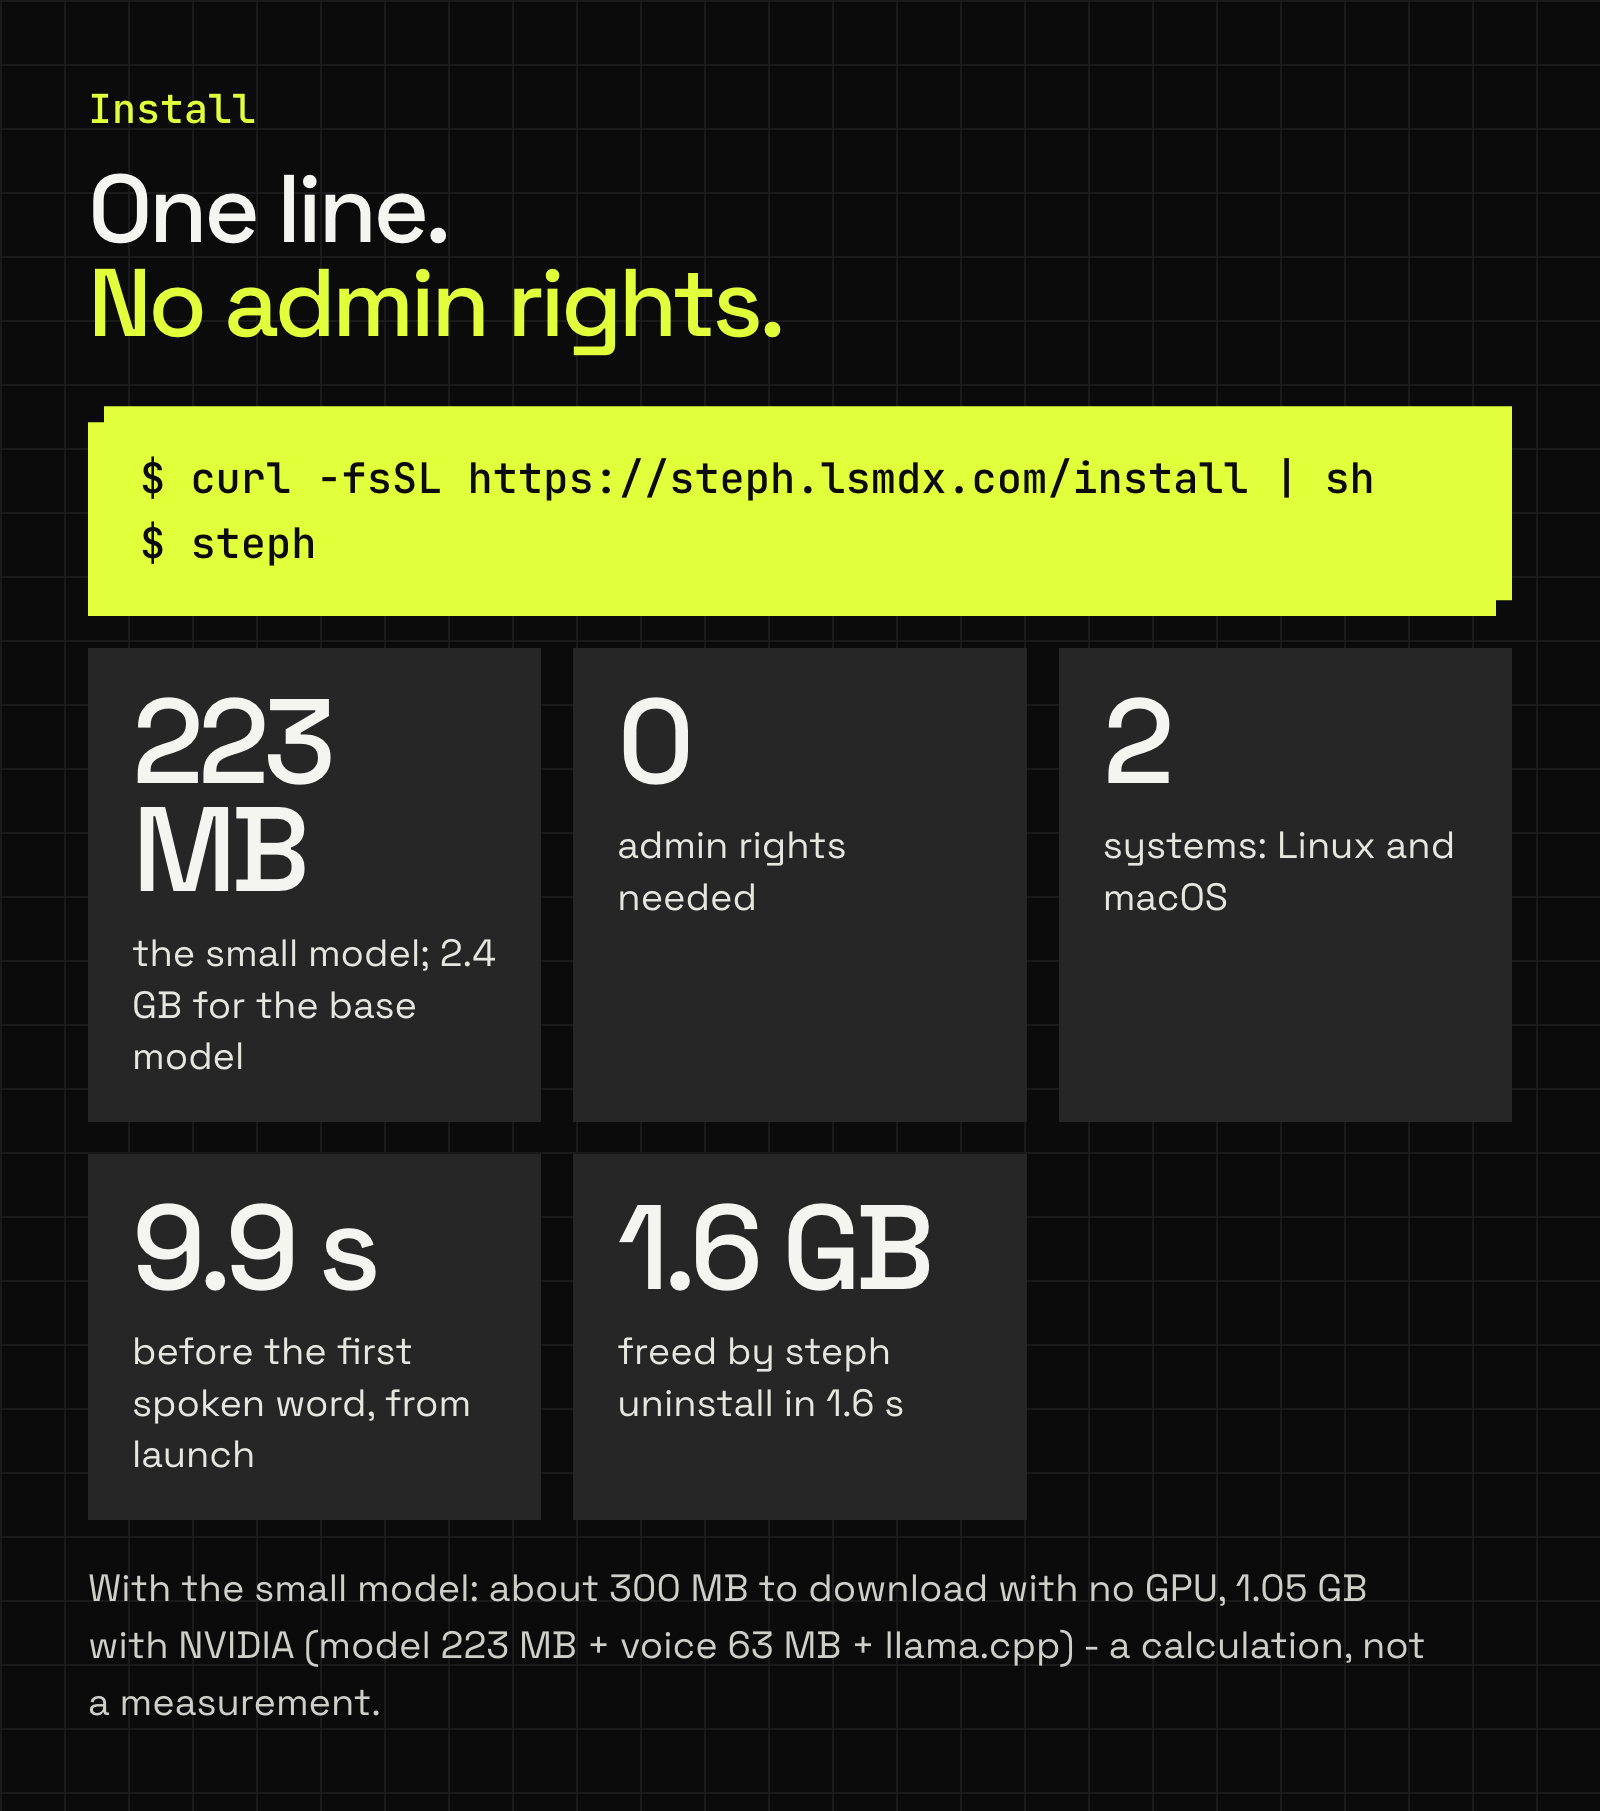
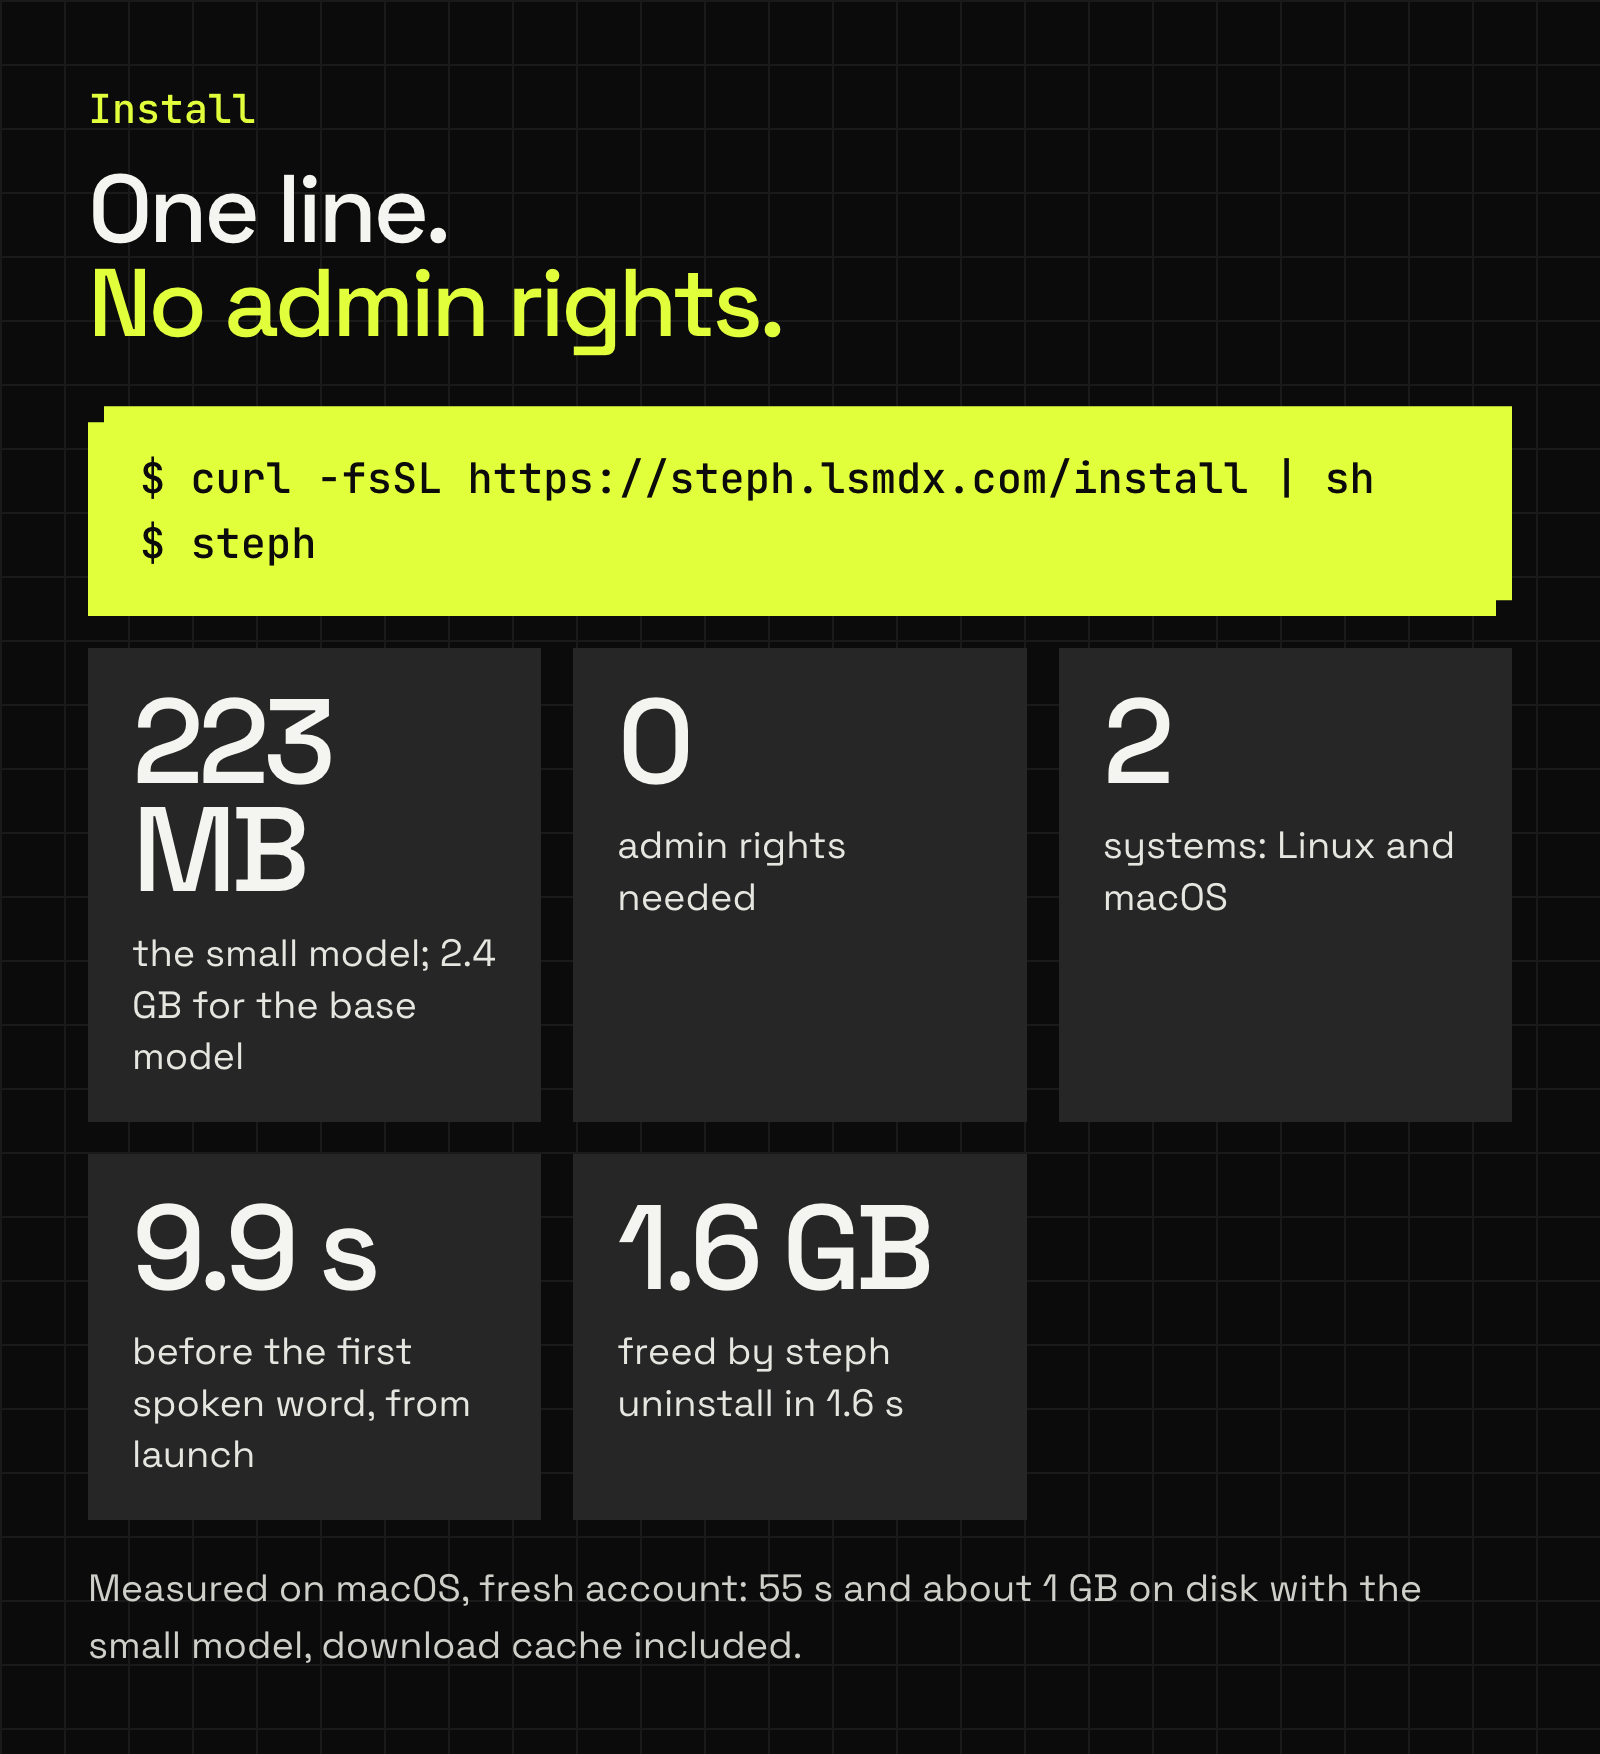
fix(shell): intégration bash réparée, taille d'installation mesurée

Changed region(s): [[0.0312, 0.0308, 0.9688, 0.9544]]

diff --git a/site/public/index.html b/site/public/index.html
@@ -164,8 +164,8 @@
       </div>
       <div class="tile">
         <h3 class="h3-mono">Installation</h3>
-        <p class="tile-figure" style="font-size:clamp(60px,6vw,88px)">≈ 300 Mo</p>
-        <p>Calcul, sans carte graphique : petit modèle, voix et llama.cpp. steph parle avant la fin.</p>
+        <p class="tile-figure" style="font-size:clamp(60px,6vw,88px)">≈ 1 Go</p>
+        <p>Mesuré sur macOS, compte vierge : 55 secondes, cache compris. steph parle avant la fin.</p>
       </div>
       <div class="tile lemon">
         <h3 class="h3-mono">Local</h3>
@@ -177,7 +177,7 @@
       <summary>Comment ces chiffres sont mesurés</summary>
       <ul class="detail-list">
         <li><strong>Premier son :</strong> neuf fois sur dix, steph commence à parler moins de 0,19 seconde après la fin d'une commande. Portable Intel Core i5-7200U, sans carte graphique, 33 sorties réelles rejouées. Mesuré avec une version antérieure de steph-speak et non remesuré : 32 de ces 33 phrases viennent des règles écrites en code, sans le modèle.</li>
-        <li><strong>Installation :</strong> le petit modèle pèse 223 Mo, le modèle base 2,43 Go, auxquels s'ajoutent la voix (63 Mo) et llama.cpp. Avec le petit modèle et sans carte graphique, comptez environ 300 Mo (calcul, pas une mesure).</li>
+        <li><strong>Installation :</strong> mesurée sur macOS dans un compte vierge : 55 secondes et environ 1 Go sur le disque avec le petit modèle (modèle 212 Mo, voix 60 Mo, Python, code et dépendances 450 Mo, cache de téléchargement 260 Mo, supprimable) ; llama.cpp de Homebrew non compté. Le modèle base ajoute 2,43 Go.</li>
       </ul>
     </details>
 
@@ -376,7 +376,7 @@
       <button class="copy" type="button" data-copy="install"><span class="lbl">Copier</span><span class="sr-only"> les commandes d'installation</span></button>
     </div>
     <ul class="inline-list">
-      <li>Sans droits administrateur. Le petit modèle pèse 223 Mo ; environ 300 Mo en tout sans carte graphique.</li>
+      <li>Sans droits administrateur. Environ 1 Go sur le disque avec le petit modèle (mesuré sur macOS).</li>
       <li>Prérequis : <code>curl</code>, <code>git</code>, <code>tar</code>.</li>
       <li>Désinstaller : <code class="accent">steph uninstall</code></li>
     </ul>

diff --git a/site/public/en/index.html b/site/public/en/index.html
@@ -164,8 +164,8 @@
       </div>
       <div class="tile">
         <h3 class="h3-mono">Install</h3>
-        <p class="tile-figure" style="font-size:clamp(60px,6vw,88px)">≈ 300 MB</p>
-        <p>A calculation, with no graphics card: small model, voice and llama.cpp. steph speaks before it ends.</p>
+        <p class="tile-figure" style="font-size:clamp(60px,6vw,88px)">≈ 1 GB</p>
+        <p>Measured on macOS, fresh account: 55 seconds, cache included. steph speaks before it ends.</p>
       </div>
       <div class="tile lemon">
         <h3 class="h3-mono">Local</h3>
@@ -177,7 +177,7 @@
       <summary>How these numbers are measured</summary>
       <ul class="detail-list">
         <li><strong>First sound:</strong> nine times out of ten, steph starts speaking less than 0.19 seconds after a command ends. Intel Core i5-7200U laptop, no graphics card, 33 real command outputs replayed. Measured with an earlier version of steph-speak and not re-measured: 32 of these 33 sentences come from rules written in code, without the model.</li>
-        <li><strong>Install:</strong> the small model is 223 MB, the base model 2.43 GB, plus the voice (63 MB) and llama.cpp. With the small model and no graphics card, expect about 300 MB (a calculation, not a measurement).</li>
+        <li><strong>Install:</strong> measured on macOS in a fresh account: 55 seconds and about 1 GB on disk with the small model (model 212 MB, voice 60 MB, Python, code and dependencies 450 MB, download cache 260 MB, removable); llama.cpp from Homebrew not counted. The base model adds 2.43 GB.</li>
       </ul>
     </details>
 
@@ -376,7 +376,7 @@
       <button class="copy" type="button" data-copy="install"><span class="lbl">Copy</span><span class="sr-only"> the install commands</span></button>
     </div>
     <ul class="inline-list">
-      <li>No admin rights. The small model is 223 MB; about 300 MB in total with no graphics card.</li>
+      <li>No admin rights. About 1 GB on disk with the small model (measured on macOS).</li>
       <li>Requirements: <code>curl</code>, <code>git</code>, <code>tar</code>.</li>
       <li>Uninstall: <code class="accent">steph uninstall</code></li>
     </ul>

diff --git a/docs/readme-charts/src/readme/install.fr.html b/docs/readme-charts/src/readme/install.fr.html
@@ -13,7 +13,7 @@
 <h1>Une ligne.<br><em>Sans droits administrateur.</em></h1>
 <div class="inst"><div class="c1">curl -fsSL https://steph.lsmdx.com/install | sh</div><div class="c1">steph</div></div>
 <div class="stats"><div class="st"><div class="num">223 Mo</div><div class="cap">le petit modèle ; 2,4 Go pour le modèle base</div></div><div class="st"><div class="num">0</div><div class="cap">droit administrateur requis</div></div><div class="st"><div class="num">2</div><div class="cap">systèmes : Linux et macOS</div></div><div class="st"><div class="num">9,9 s</div><div class="cap">avant la première phrase, dès le lancement</div></div><div class="st"><div class="num">1,6 Go</div><div class="cap">libérés par steph uninstall en 1,6 s</div></div></div>
-<p class="foot">Avec le petit modèle : environ 300 Mo à télécharger sans GPU, 1,05 Go avec NVIDIA (modèle 223 Mo + voix 63 Mo + llama.cpp) - calcul, pas une mesure.</p>
+<p class="foot">Mesuré sur macOS, compte vierge : 55 s et environ 1 Go sur le disque avec le petit modèle, cache de téléchargement compris.</p>
 <style>
 .inst { margin-top: 28px; padding: 20px 26px; background: var(--lemon); color: var(--black); clip-path: var(--notch-card);
   font-family: var(--mono); font-feature-settings: "calt" 0, "liga" 0; font-size: 21px; font-weight: 500; line-height: 1.55; }

diff --git a/docs/readme-charts/src/readme/install.en.html b/docs/readme-charts/src/readme/install.en.html
@@ -13,7 +13,7 @@
 <h1>One line.<br><em>No admin rights.</em></h1>
 <div class="inst"><div class="c1">curl -fsSL https://steph.lsmdx.com/install | sh</div><div class="c1">steph</div></div>
 <div class="stats"><div class="st"><div class="num">223 MB</div><div class="cap">the small model; 2.4 GB for the base model</div></div><div class="st"><div class="num">0</div><div class="cap">admin rights needed</div></div><div class="st"><div class="num">2</div><div class="cap">systems: Linux and macOS</div></div><div class="st"><div class="num">9.9 s</div><div class="cap">before the first spoken word, from launch</div></div><div class="st"><div class="num">1.6 GB</div><div class="cap">freed by steph uninstall in 1.6 s</div></div></div>
-<p class="foot">With the small model: about 300 MB to download with no GPU, 1.05 GB with NVIDIA (model 223 MB + voice 63 MB + llama.cpp) - a calculation, not a measurement.</p>
+<p class="foot">Measured on macOS, fresh account: 55 s and about 1 GB on disk with the small model, download cache included.</p>
 <style>
 .inst { margin-top: 28px; padding: 20px 26px; background: var(--lemon); color: var(--black); clip-path: var(--notch-card);
   font-family: var(--mono); font-feature-settings: "calt" 0, "liga" 0; font-size: 21px; font-weight: 500; line-height: 1.55; }

diff --git a/tests/test_bash_markers.py b/tests/test_bash_markers.py
@@ -1,0 +1,52 @@
+"""Marqueurs OSC 6973 de l'intégration bash : un D à chaque invite, un C seulement
+pour la commande tapée, jamais pendant le rendu de l'invite."""
+
+import base64
+import os
+import pty
+import re
+import select
+import shutil
+import time
+from pathlib import Path
+
+import pytest
+
+BASHRC = Path(__file__).resolve().parents[1] / "src" / "steph" / "shell" / "bashrc"
+MARKER = re.compile(rb"\x1b\]6973;([CD]);([^\x07]*)\x07")
+
+
+def drive(bash: str, home: Path, commands: list[str]) -> list[tuple[str, str]]:
+    env = {"HOME": str(home), "PATH": "/usr/bin:/bin", "TERM": "xterm", "STEPH_MENU_KEY": "F6"}
+    pid, fd = pty.fork()
+    if pid == 0:
+        os.execve(bash, [bash, "--rcfile", str(BASHRC), "-i"], env)
+    out = bytearray()
+
+    def pump(seconds: float) -> None:
+        end = time.time() + seconds
+        while time.time() < end:
+            if select.select([fd], [], [], 0.1)[0]:
+                try:
+                    out.extend(os.read(fd, 65536))
+                except OSError:
+                    return
+
+    pump(1.5)
+    for cmd in commands:
+        os.write(fd, cmd.encode() + b"\r")
+        pump(0.8)
+    os.write(fd, b"exit\r")
+    pump(0.5)
+    os.waitpid(pid, 0)
+    return [(k.decode(), base64.b64decode(v).decode() if k == b"C" else v.decode()) for k, v in MARKER.findall(bytes(out))]
+
+
+@pytest.mark.skipif(shutil.which("bash") is None, reason="bash absent")
+def test_bash_emits_command_marker_only_for_typed_commands(tmp_path):
+    marks = drive(shutil.which("bash"), tmp_path, ["echo hi", "cd /tmp"])
+    kinds = [k for k, _ in marks]
+    commands = [v for k, v in marks if k == "C"]
+    assert commands[:2] == ["echo hi", "cd /tmp"]  # pas de C fantôme avant la première commande
+    assert kinds[0] == "D"
+    assert all(a != b for a, b in zip(kinds, kinds[1:]))  # alternance stricte D, C, D, C...

diff --git a/docs/readme-charts/build_readme.py b/docs/readme-charts/build_readme.py
@@ -273,8 +273,8 @@ def install(img: Img) -> str:
 <h1>{img.t("Une ligne.<br><em>Sans droits administrateur.</em>", "One line.<br><em>No admin rights.</em>")}</h1>
 <div class="inst"><div class="c1">curl -fsSL https://steph.lsmdx.com/install | sh</div><div class="c1">steph</div></div>
 <div class="stats">{cells}</div>
-<p class="foot">{img.t("Avec le petit modèle : environ 300 Mo à télécharger sans GPU, 1,05 Go avec NVIDIA (modèle 223 Mo + voix 63 Mo + llama.cpp) - calcul, pas une mesure.",
-                       "With the small model: about 300 MB to download with no GPU, 1.05 GB with NVIDIA (model 223 MB + voice 63 MB + llama.cpp) - a calculation, not a measurement.")}</p>
+<p class="foot">{img.t("Mesuré sur macOS, compte vierge : 55 s et environ 1 Go sur le disque avec le petit modèle, cache de téléchargement compris.",
+                       "Measured on macOS, fresh account: 55 s and about 1 GB on disk with the small model, download cache included.")}</p>
 <style>
 .inst {{ margin-top: 28px; padding: 20px 26px; background: var(--lemon); color: var(--black); clip-path: var(--notch-card);
   font-family: var(--mono); font-feature-settings: "calt" 0, "liga" 0; font-size: 21px; font-weight: 500; line-height: 1.55; }}

diff --git a/tests/e2e.py b/tests/e2e.py
@@ -68,7 +68,11 @@ def run(name):
                 try: out.extend(os.read(fd, 65536))
                 except OSError: return
     t0 = time.time()
-    pump(8)  # démarrage shell + modèle
+    # démarrage shell + modèle : attendre l'annonce de steph, pas un délai fixe (runner lent : plus de 8 s)
+    deadline = time.time() + 60
+    while time.time() < deadline and "F6" not in open(LOG).read():
+        pump(0.5)
+    pump(2)
     import glob, subprocess
     for cmd, wait in SCENARIOS[name]:
         if cmd.startswith("KEY:"):

diff --git a/README.fr.md b/README.fr.md
@@ -79,7 +79,7 @@ Tout tourne **en local** : le modèle steph-speak (petit, ou base sur les machin
 
 <picture>
   <source media="(prefers-color-scheme: dark)" srcset="assets/readme/install.fr.dark.png">
-  <img src="assets/readme/install.fr.light.png" alt="Une ligne, sans droits administrateur : curl -fsSL https://steph.lsmdx.com/install | sh, puis steph. Le petit modèle pèse 223 Mo, le modèle base 2,4 Go. Linux et macOS. Avec le petit modèle : environ 300 Mo à télécharger sans GPU, 1,05 Go avec NVIDIA, un calcul, pas une mesure." width="100%">
+  <img src="assets/readme/install.fr.light.png" alt="Une ligne, sans droits administrateur : curl -fsSL https://steph.lsmdx.com/install | sh, puis steph. Le petit modèle pèse 223 Mo, le modèle base 2,4 Go. Linux et macOS. Mesuré sur macOS, compte vierge : 55 s et environ 1 Go sur le disque avec le petit modèle, cache de téléchargement compris." width="100%">
 </picture>
 
 ```sh

diff --git a/README.md b/README.md
@@ -84,7 +84,7 @@ Everything runs **locally**: the steph-speak model (small, or base on faster mac
 
 <picture>
   <source media="(prefers-color-scheme: dark)" srcset="assets/readme/install.en.dark.png">
-  <img src="assets/readme/install.en.light.png" alt="One line, no admin rights: curl -fsSL https://steph.lsmdx.com/install | sh, then steph. The small model is 223 MB, the base model 2.4 GB. Linux and macOS. With the small model: about 300 MB to download with no GPU, 1.05 GB with NVIDIA, a calculation, not a measurement." width="100%">
+  <img src="assets/readme/install.en.light.png" alt="One line, no admin rights: curl -fsSL https://steph.lsmdx.com/install | sh, then steph. The small model is 223 MB, the base model 2.4 GB. Linux and macOS. Measured on macOS, fresh account: 55 s and about 1 GB on disk with the small model, download cache included." width="100%">
 </picture>
 
 ```sh
